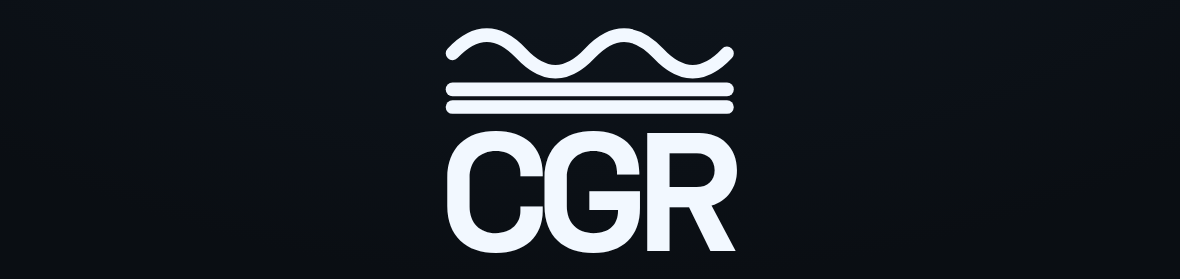
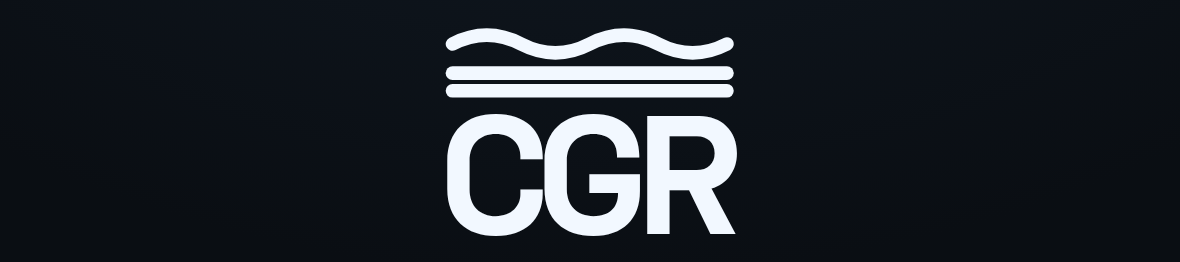
design(grade-lab): back to gentle waves, per-pair gaps

diff --git a/design/grade-lab/lockup.js b/design/grade-lab/lockup.js
@@ -66,7 +66,7 @@ export function renderLockup(host, opts) {
 
   // —— 2. 从字体里取网格 ——
   const stem = cap * 0.115; // 和 800 字重的字干接近
-  const amp = cap * 0.155; // 波纹振幅（曲线要明显，才不是装饰线）
+  const amp = cap * 0.075; // 波纹振幅（回到上一版的手感）
   const gapToWord = cap * 0.16; // 最下面一行墨迹到 cap line 的距离
   const inset = stem * 0.75; // 视觉宽度：记号比字略窄，A / X 这类斜边才不会被记号压住
 
@@ -87,7 +87,17 @@ export function renderLockup(host, opts) {
   };
   const linePath = (y) => `M ${inkLeft} ${y} L ${inkRight} ${y}`;
 
-  const gap = cap * 0.035; // 唯一间隙：所有相邻两行都是它
+  // 间隙不能全用一个值：波浪是曲线，两条曲线之间只要留不到一个描边宽，
+  // 就会读成“一条粗线中间有条缝”。所以：
+  //   波浪↔波浪 = 1 个描边宽（两个波才分得开）
+  //   波浪↔直线 = 半个描边宽（谷底到直线）
+  //   直线↔直线 = 0.035 cap
+  const gapFor = (below, above) =>
+    below === 'wave' && above === 'wave'
+      ? stem
+      : below === 'wave' || above === 'wave'
+        ? stem * 0.5
+        : cap * 0.035;
 
   /*
    * 一行可能在另一行的上方，两行之间的距离不是简单“半高相加”：
@@ -109,7 +119,7 @@ export function renderLockup(host, opts) {
   const last = rows.length - 1;
   stackAbove[last] = top - gapToWord - (rows[last].kind === 'wave' ? amp : 0) - stem / 2;
   for (let i = rows.length - 2; i >= 0; i -= 1) {
-    const gapBetween = stem + gap + extra(rows[i].kind, rows[i + 1].kind);
+    const gapBetween = stem + gapFor(rows[i].kind, rows[i + 1].kind) + extra(rows[i].kind, rows[i + 1].kind);
     stackAbove[i] = stackAbove[i + 1] - gapBetween;
   }
 
@@ -117,7 +127,7 @@ export function renderLockup(host, opts) {
   const stackBelow = [];
   stackBelow[0] = baseline + gapToWord + (rows[0].kind === 'wave' ? amp : 0) + stem / 2;
   for (let i = 1; i < rows.length; i += 1) {
-    const gapBetween = stem + gap + extra(rows[i - 1].kind, rows[i].kind);
+    const gapBetween = stem + gapFor(rows[i - 1].kind, rows[i].kind) + extra(rows[i - 1].kind, rows[i].kind);
     stackBelow[i] = stackBelow[i - 1] + gapBetween;
   }
 

diff --git a/prototype/FUTURE.md b/prototype/FUTURE.md
@@ -68,8 +68,8 @@
   样张在 [`../design/grade-lab/`](../design/grade-lab/)：每个符号单独一页，符号是自绘 SVG，
   波纹逐级消失（`≈` 两波 → `≃` 一波一横 → `≅` 一波两横 → `≡` 三横），不依赖字体覆盖。
 - **锁版规则**：符号与字同宽（取字母实测包围盒，再收半个描边做视觉修正）、描边 = 字干
-  （cap height 的 11.5%）、记号底边离 cap line 0.16 cap；每一行之间统一 3.5% cap 的
-  **墨迹间隙**（波浪之间、波浪与横线、横线之间完全一致），波纹振幅 15.5% cap。
+  （cap height 的 11.5%）、记号底边离 cap line 0.16 cap；行距按行类型给：
+  波浪之间 1 个描边宽、波浪到横线半个描边宽、横线之间 3.5% cap；波纹振幅 7.5% cap。
   默认摆法是「整枚记号压在字上方」。
 - 恰好 100% 记为 **`IDN+`**（`IDN` 覆盖 99–100%，`IDN+` 只在满分时出现）。
 - 字母词表待定（当前提案 `APX / ASM / CGR / IDN`）。

diff --git a/design/grade-lab/README.md b/design/grade-lab/README.md
@@ -30,8 +30,8 @@
 | --- | --- |
 | 同宽 | 符号左右边界 = 三个字母的包围盒（再收半个描边做视觉修正） |
 | 同粗 | 描边 = 字干粗细（≈ cap height 的 11.5%） |
-| 对齐 | 记号底边离 cap line 0.16 cap；每一行之间统一 **3.5% cap 墨迹间隙**（波浪之间、波浪与横线、横线之间完全一致） |
-| 振幅 | 波纹 15.5% cap：太小会读成装饰线 |
+| 对齐 | 记号底边离 cap line 0.16 cap；行距按行类型给：波浪之间 **1 个描边宽**、波浪到横线 **半个描边宽**、横线之间 **3.5% cap** |
+| 振幅 | 波纹 7.5% cap：再大，两条波浪在“1 个描边宽”的间距下会视觉粘连 |
 
 符号也是自绘 SVG：`≈` 两波 → `≃` 一波一横 → `≅` 一波两横 → `≡` 三横。
 波纹逐级消失，等于“误差在收敛”这件事本身。不依赖字体覆盖。
